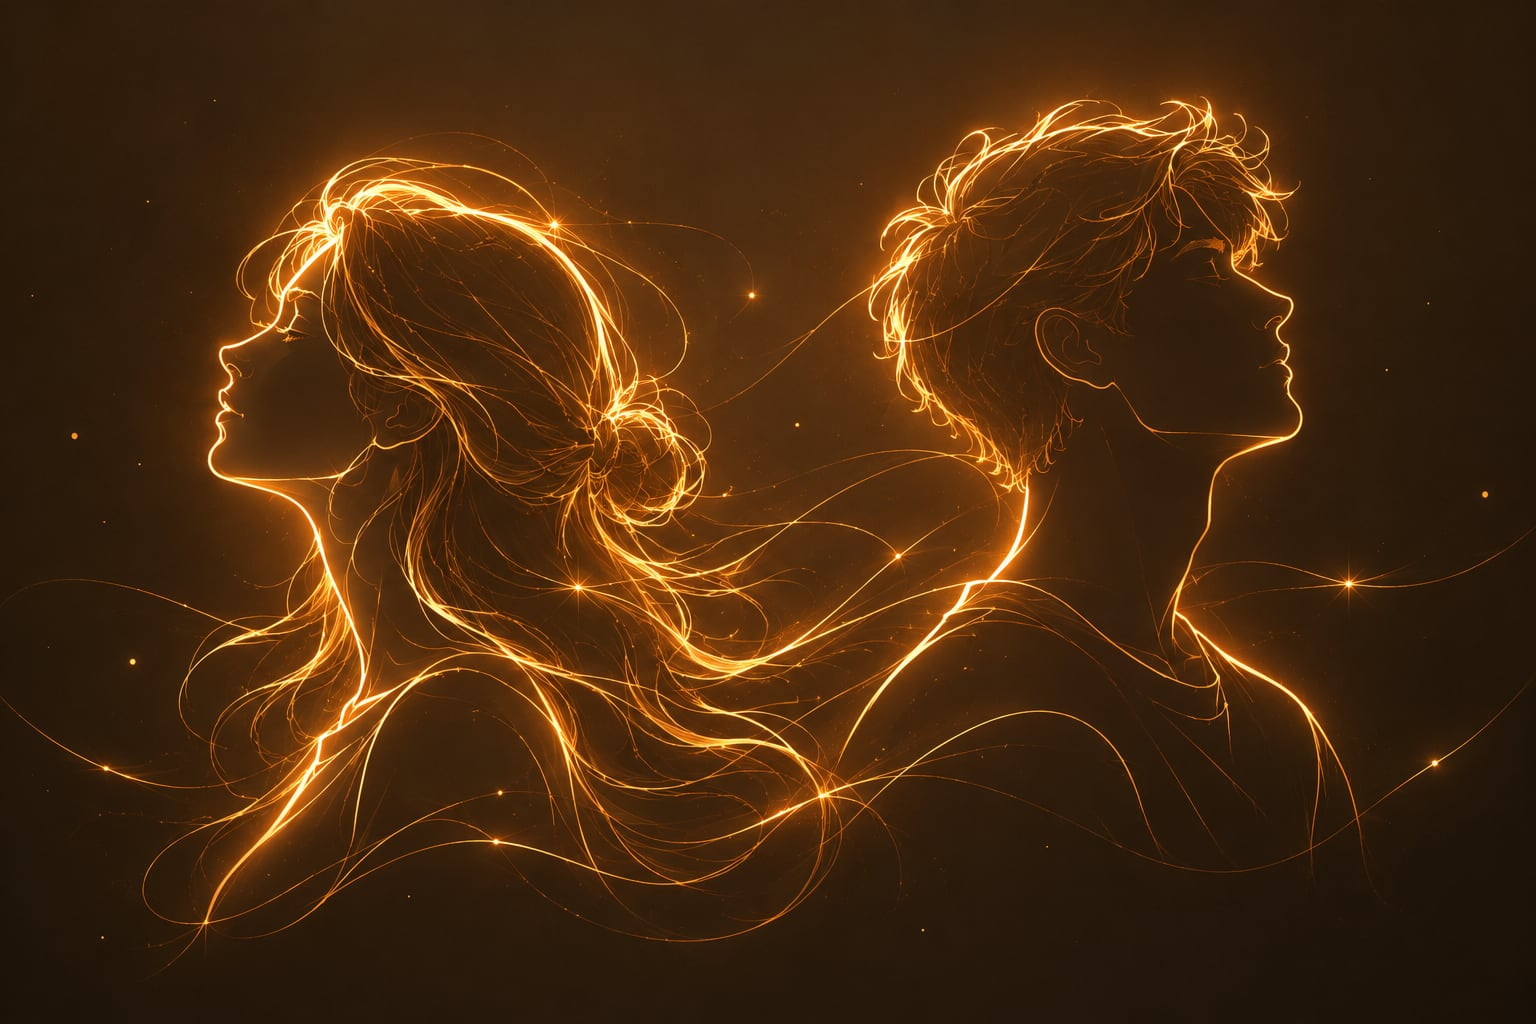
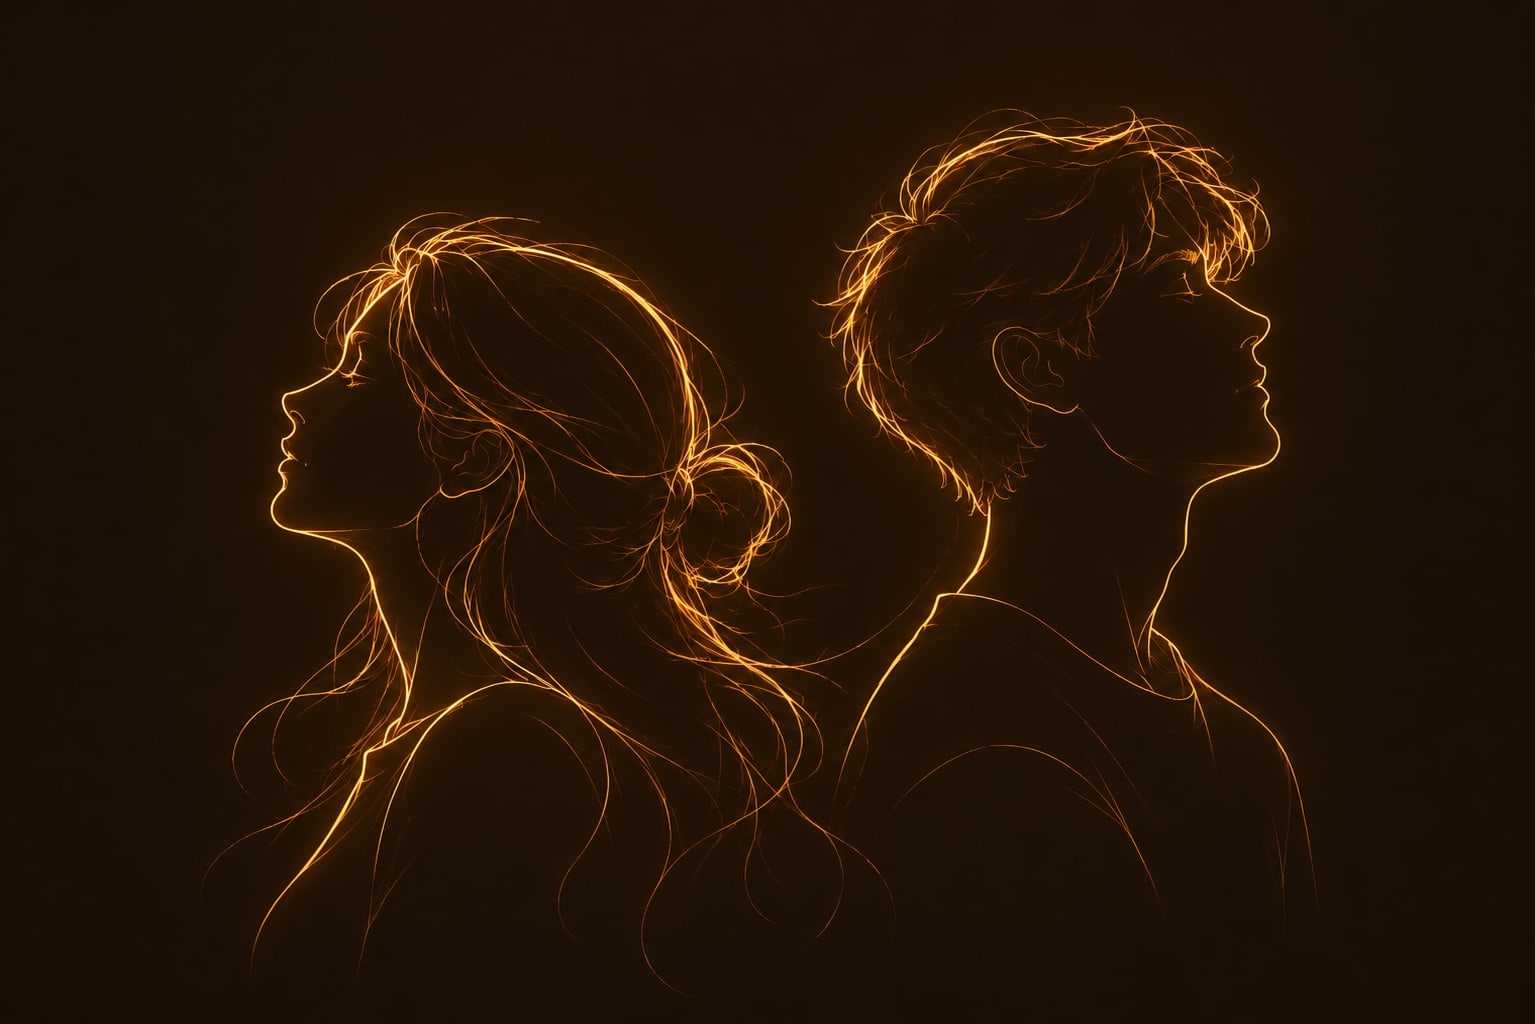
Hero: cleaner dark dual-profile bg; lighter scrim/bloom; crisp white type

diff --git a/styles.css b/styles.css
@@ -65,13 +65,13 @@ section{position:relative}
   background:url(./assets/hero.jpg) center top/cover no-repeat;transform-origin:32% 36%;
   animation:kenburns 28s ease-in-out infinite alternate}
 .hero::after{content:"";position:absolute;inset:0;z-index:2;pointer-events:none;
-  background:linear-gradient(180deg,rgba(22,12,2,0) 32%,rgba(22,12,2,.16) 60%,rgba(21,11,2,.64) 86%,rgba(20,10,2,.92) 96%,var(--paper) 100%)}
+  background:linear-gradient(180deg,rgba(18,10,1,0) 50%,rgba(18,10,1,.3) 80%,rgba(15,8,1,.78) 95%,var(--paper) 100%)}
 @keyframes kenburns{from{transform:scale(1.02)}to{transform:scale(1.09)}}
 /* glow that makes her pop, gently breathing */
 .hero-bloom{position:absolute;inset:0;z-index:1;pointer-events:none;mix-blend-mode:screen;
-  background:radial-gradient(32% 38% at 31% 33%,rgba(255,221,140,.6),rgba(255,197,94,.2) 46%,rgba(255,197,94,0) 72%);
+  background:radial-gradient(26% 32% at 28% 34%,rgba(255,207,138,.5),rgba(255,179,71,.14) 50%,rgba(255,179,71,0) 100%);
   animation:bloom 9s ease-in-out infinite}
-@keyframes bloom{0%,100%{opacity:.5}50%{opacity:.92}}
+@keyframes bloom{0%,100%{opacity:.4}50%{opacity:.8}}
 /* drifting twinkles */
 .hero-sparks{position:absolute;inset:0;z-index:3;pointer-events:none}
 .hero-sparks span{position:absolute;width:3px;height:3px;border-radius:50%;background:#FFE6A8;
@@ -88,14 +88,14 @@ section{position:relative}
 @keyframes twinkle{0%,100%{opacity:0;transform:scale(.6)}50%{opacity:1;transform:scale(1.15)}}
 @media (prefers-reduced-motion:reduce){
   .hero::before{animation:none}.hero-bloom{animation:none;opacity:.7}.hero-sparks span{animation:none;opacity:.6}}
-/* hero over the golden image: clean, cohesive whites with a soft glow */
-.hero .eyebrow{color:rgba(255,251,245,.82);text-shadow:0 1px 10px rgba(22,12,2,.4)}
-.hero h1{color:#FFFDFA;text-shadow:0 2px 18px rgba(22,12,2,.38)}
-.hero h1 .accent{color:#FFF0D8}
-.hero .lede{color:rgba(255,250,243,.9);text-shadow:0 1px 12px rgba(22,12,2,.38)}
+/* hero over the dark image: crisp cohesive whites */
+.hero .eyebrow{color:rgba(255,252,247,.82);text-shadow:0 1px 8px rgba(0,0,0,.4)}
+.hero h1{color:#FFFFFF;text-shadow:0 1px 14px rgba(0,0,0,.42)}
+.hero h1 .accent{color:#FFEFD2}
+.hero .lede{color:rgba(255,252,247,.92);text-shadow:0 1px 10px rgba(0,0,0,.42)}
 .hero .lede .breath{color:#FBEAD0}
-.hero .trust{color:rgba(255,250,243,.84);text-shadow:0 1px 10px rgba(22,12,2,.38)}
-.hero .scroll-cue{color:rgba(255,251,245,.8)}
+.hero .trust{color:rgba(255,252,247,.85);text-shadow:0 1px 8px rgba(0,0,0,.42)}
+.hero .scroll-cue{color:rgba(255,252,247,.8)}
 .hero .btn-soft{background:rgba(255,250,238,.14);border-color:rgba(255,247,232,.34);color:#FFF6E6}
 .hero .btn-soft:hover{background:rgba(255,250,238,.24)}
 /* transparent home nav sits on the dark hero -> light type until scrolled */

diff --git a/index.html b/index.html
@@ -14,7 +14,7 @@
 <link rel="preconnect" href="https://fonts.googleapis.com" />
 <link rel="preconnect" href="https://fonts.gstatic.com" crossorigin />
 <link href="https://fonts.googleapis.com/css2?family=Fraunces:opsz,wght@9..144,400;9..144,500;9..144,600&family=Cormorant:ital,wght@1,500&family=Inter:wght@400;500;600&display=swap" rel="stylesheet" />
-<link rel="stylesheet" href="./styles.css?v=12" />
+<link rel="stylesheet" href="./styles.css?v=13" />
 </head>
 <body>
 